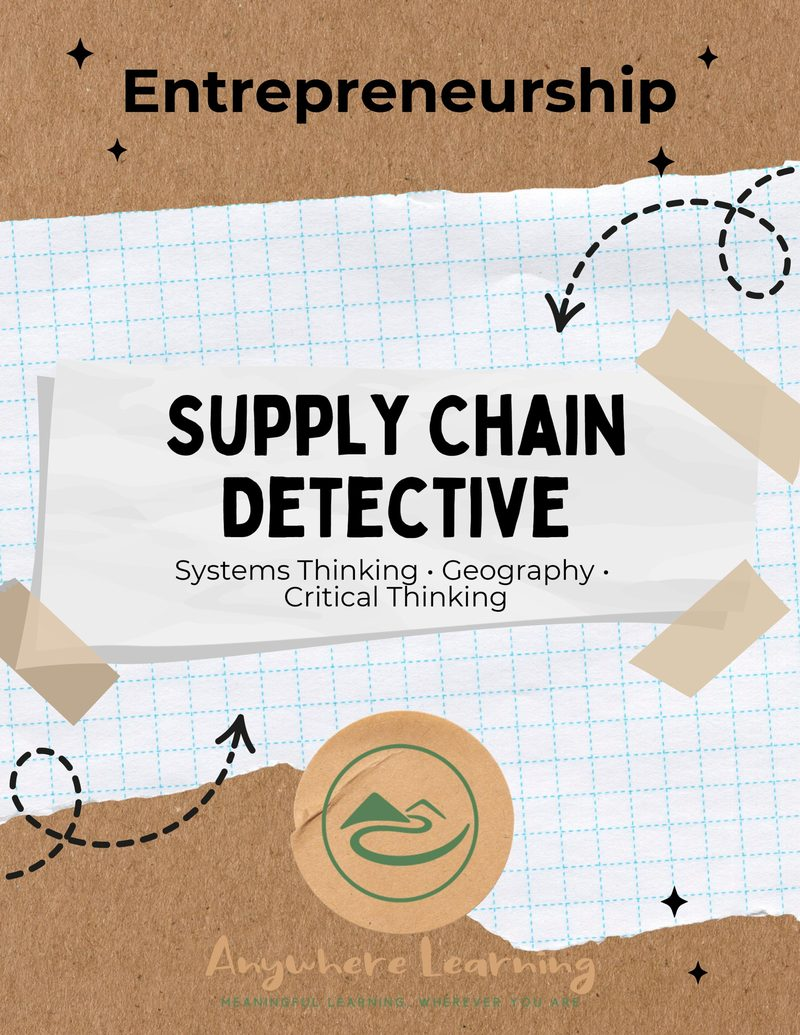
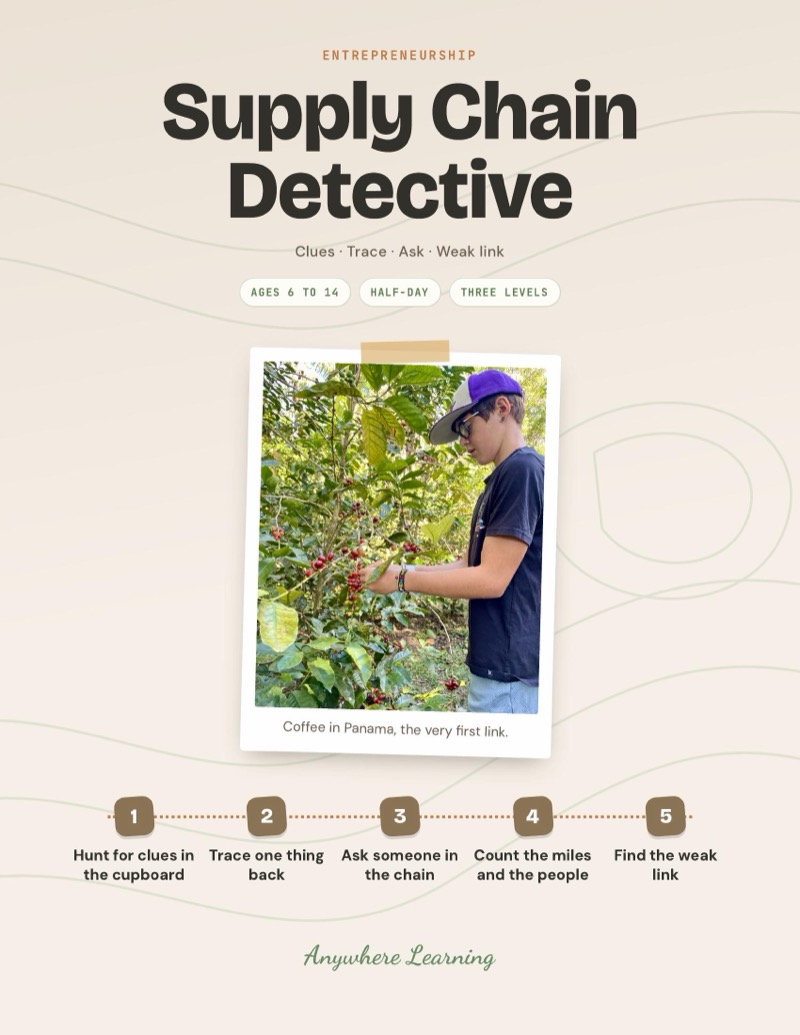
Supply Chain Detective: redesigned guide, Panama coffee photo and story, ages 6-14, citizenship tag

diff --git a/scripts/seed.ts b/scripts/seed.ts
@@ -105,7 +105,7 @@ async function seed() {
     { name: 'Marketing Campaign Creator', slug: 'marketing-campaign', description: 'Your child gets real people to notice something real. They pick one kind of person to reach, give it a name, colours and a simple logo, and write one clear message. Then they put it where that person will see it, with a code word on each sign, and count the responses to find out which one actually worked.', shortDescription: 'Entrepreneurship for kids ages 6-14: name it, brand it, write one clear message and count which sign really worked.', priceCents: 599, compareAtPriceCents: null, stripePriceId: '', blobUrl: '', imageUrl: '/products/marketing-campaign.jpg', category: 'entrepreneurship', isBundle: false, bundleProductIds: null, activityCount: null, ageRange: 'Ages 6\u201314', sortOrder: 125, active: true },
     { name: 'Pricing Experiment', slug: 'pricing-experiment', description: 'Your child finds the right price for something real by testing it, not guessing. They work out what one costs to make, check what others charge, pick two prices and predict which will win. Then they sell at both with real buyers, try a bigger size or a bundle, and settle on the price their own numbers support.', shortDescription: 'Entrepreneurship and math for kids ages 6-14: test two prices with real buyers and find the one that keeps the most money.', priceCents: 599, compareAtPriceCents: null, stripePriceId: '', blobUrl: '', imageUrl: '/products/pricing-experiment.jpg', category: 'entrepreneurship', isBundle: false, bundleProductIds: null, activityCount: null, ageRange: 'Ages 6\u201314', sortOrder: 126, active: true },
     { name: 'Product Design Lab', slug: 'product-design-lab', description: 'Use design thinking to create a product that solves a real problem.', shortDescription: 'Design a product from scratch.', priceCents: 599, compareAtPriceCents: null, stripePriceId: '', blobUrl: '', imageUrl: '/products/product-design-lab.jpg', category: 'entrepreneurship', isBundle: false, bundleProductIds: null, activityCount: null, ageRange: 'Ages 8–14', sortOrder: 127, active: false },
-    { name: 'Supply Chain Detective', slug: 'supply-chain-detective', description: 'Trace a product\u2019s journey from source to consumer and understand global systems.', shortDescription: 'Investigate real supply chains.', priceCents: 599, compareAtPriceCents: null, stripePriceId: '', blobUrl: '', imageUrl: '/products/supply-chain-detective.jpg', category: 'entrepreneurship', isBundle: false, bundleProductIds: null, activityCount: null, ageRange: 'Ages 8–14', sortOrder: 128, active: true },
+    { name: 'Supply Chain Detective', slug: 'supply-chain-detective', description: 'Your child finds out how everyday things get to your kitchen. They read the labels in your cupboard, trace one product back to where it started and ask a real person in the chain, like someone at the store or a farmer at the market. Then they count the miles and the people it took, and find the weak link that breaks first.', shortDescription: 'Entrepreneurship and geography for kids ages 6-14: trace a real product from your cupboard back to where it started.', priceCents: 599, compareAtPriceCents: null, stripePriceId: '', blobUrl: '', imageUrl: '/products/supply-chain-detective.jpg', category: 'entrepreneurship', isBundle: false, bundleProductIds: null, activityCount: null, ageRange: 'Ages 6\u201314', sortOrder: 128, active: true },
     { name: 'Shark Tank Style Pitch', slug: 'shark-tank-pitch', description: 'Your child asks the family for real backing, Shark Tank style. They build the numbers for their business, decide exactly what they are asking for and what the shark gets back, and write a one-minute pitch. Then they face a panel of family sharks, choose a deal, sign it and pay it back on time.', shortDescription: 'Business pitch for kids ages 6-14: build the numbers, pitch to family sharks and sign a real deal you pay back.', priceCents: 599, compareAtPriceCents: null, stripePriceId: '', blobUrl: '', imageUrl: '/products/shark-tank-pitch.jpg', category: 'entrepreneurship', isBundle: false, bundleProductIds: null, activityCount: null, ageRange: 'Ages 6\u201314', sortOrder: 129, active: true },
 
     // === PLANNING & PROBLEM-SOLVING - New guides (sortOrder 130-139) ===

diff --git a/lib/product-descriptions.ts b/lib/product-descriptions.ts
@@ -1962,24 +1962,24 @@ export const productDescriptions: Record<string, ProductDescription> = {
   },
   'supply-chain-detective': {
     opening:
-      'Trace a product\'s journey from raw materials to your front door, and discover the global systems that connect everything. Kids investigate supply chains, think about geography, labour, and sustainability, and develop systems thinking. Critical analysis meets global awareness.',
+      'Your child finds out how everyday things get to your kitchen. They read the labels in your cupboard, trace one product back to where it started and ask a real person in the chain, like someone at the store or a farmer at the market. Then they count the miles and the people it took, and find the weak link that breaks first.',
     whatsIncluded: [
-      'Supply chain investigation guide',
-      'Product journey mapping activities',
-      'Geography and global trade connections',
-      'Sustainability and ethics discussion prompts',
-      'Systems thinking and interconnection mapping',
+      'A 5-step guide from the cupboard labels to the weak link',
+      'A worked example that follows a banana back to the farm',
+      'Label clues card and The links card',
+      'Ask the chain card and Weak links card',
+      'My chain page to fill in for their product',
     ],
-    skillTags: ['Systems Thinking', 'Geography', 'Critical Thinking', 'Sustainability', 'Research'],
+    skillTags: ['Systems Thinking', 'Geography', 'Research', 'Economics', 'Global Awareness'],
     insideTheLearning: {
       lead:
-        'Your child picks one ordinary object and traces where it actually came from. Raw material, factory, ship, shelf. It crosses more of the world than they expect. Then they imagine a disruption at one step and work out what breaks downstream.',
+        'Your child learns that nothing comes from the store. The store is the last stop on a long trip, and every stop has a place and a person behind it. They read real labels, ask real people and tell a fact from a guess.',
       skills: [
-        { skill: 'Systems Thinking', where: 'Seeing how each step depends on the one before it' },
-        { skill: 'Research', where: 'Finding the clues and piecing the journey together from partial information' },
-        { skill: 'Geography', where: 'Tracing how trade physically connects places on a map' },
-        { skill: 'Problem-Solving', where: 'Imagining a disruption and working out what it would take to fix it' },
-        { skill: 'Communication', where: 'Presenting the whole journey clearly enough that it makes sense to someone else' },
+        { skill: 'Geography', where: 'Mapping where each product and ingredient started' },
+        { skill: 'Research', where: 'Reading labels, looking things up and marking every guess' },
+        { skill: 'Communication', where: 'Asking a store worker, a farmer or a company about their link' },
+        { skill: 'Math', where: 'Estimating distances and counting the jobs behind one product' },
+        { skill: 'Systems Thinking', where: 'Finding the weak link and what happens when it breaks' },
       ],
     },
     format: 'Project Guide',

diff --git a/lib/fallback-products.ts b/lib/fallback-products.ts
@@ -1725,20 +1725,20 @@ export const fallbackProducts: FallbackProduct[] = [
     name: "Supply Chain Detective",
     slug: "supply-chain-detective",
     description:
-      "Trace a product's journey from raw materials to your front door. Kids investigate supply chains, understand global systems, and think critically about where things come from. Systems thinking, geography, and critical analysis in one investigation project.",
+      "Your child finds out how everyday things get to your kitchen. They read the labels in your cupboard, trace one product back to where it started and ask a real person in the chain, like someone at the store or a farmer at the market. Then they count the miles and the people it took, and find the weak link that breaks first.",
     shortDescription:
-      "Entrepreneurship for kids ages 8-14: investigate real supply chains from source to consumer. Systems thinking in action.",
+      "Entrepreneurship and geography for kids ages 6-14: trace a real product from your cupboard back to where it started.",
     priceCents: 599,
     compareAtPriceCents: null,
     stripePriceId: "price_1TLo8dAkIBECpwGmh2DEDTfk",
     blobUrl: "",
     imageUrl: "/products/supply-chain-detective.jpg",
-    previewFile: "Preview Entrepreneurship - Supply Chain Detective.pdf",
+    previewFile: "Preview Entrepreneurship - Supply Chain Detective v3.pdf",
     category: "entrepreneurship",
     isBundle: false,
     bundleProductIds: null,
     activityCount: null,
-    ageRange: "Ages 8–14",
+    ageRange: "Ages 6–14",
     sortOrder: 128,
     active: true,
     createdAt: new Date("2025-04-01"),

diff --git a/lib/activity-blob-urls.ts b/lib/activity-blob-urls.ts
@@ -121,7 +121,7 @@ export const ACTIVITY_BLOB_URLS: Record<string, string> = {
   "square-foot-safari": "https://xkj3tzlgu6ylgllk.public.blob.vercel-storage.com/Outdoor%20%26%20Nature%20-%20Square%20Foot%20Safari%20v5.pdf",
   "street-explorer-map-maker": "https://xkj3tzlgu6ylgllk.public.blob.vercel-storage.com/Worldschooling%20-%20Street%20Explorer%20Map%20Maker%20v2.pdf",
   "summer-outdoor-pack": "https://xkj3tzlgu6ylgllk.public.blob.vercel-storage.com/Outdoor%20Learning%20-%20Anywhere%20Learning%20Summer%20v2.pdf",
-  "supply-chain-detective": "https://xkj3tzlgu6ylgllk.public.blob.vercel-storage.com/Entrepreneurship%20-%20Supply%20Chain%20Detective%20v2.pdf",
+  "supply-chain-detective": "https://xkj3tzlgu6ylgllk.public.blob.vercel-storage.com/Entrepreneurship%20-%20Supply%20Chain%20Detective%20v3.pdf",
   "survival-base": "https://xkj3tzlgu6ylgllk.public.blob.vercel-storage.com/Creativity%20%26%20Maker%20Build%20a%20Survival%20Base%20for%20an%20Imaginary%20Expedition%20v5.pdf",
   "swap-day-challenge": "https://xkj3tzlgu6ylgllk.public.blob.vercel-storage.com/Planning%20%26%20Problem-Solving%20The%20Swap%20Day%20Challenge%20v5.pdf",
   "teach-it-to-learn-it": "https://xkj3tzlgu6ylgllk.public.blob.vercel-storage.com/Communication%20%26%20Writing%20-%20Teach%20It%20To%20Learn%20It%20v6.pdf",

diff --git a/lib/roadmap.ts b/lib/roadmap.ts
@@ -322,7 +322,7 @@ export const TERRITORIES: readonly Territory[] = [
       ],
     },
     activities: [
-      'kindness-missions', 'decision-lab', 'community-impact',
+      'kindness-missions', 'decision-lab', 'community-impact', 'supply-chain-detective',
       'neighbourhood-problem-spotter', 'privacy-footprint', 'world-food-detective',
       'cultural-celebration-journal', 'everyday-life-comparison', 'people-stories-interview',
       'local-language-mission', 'solo-mission',
